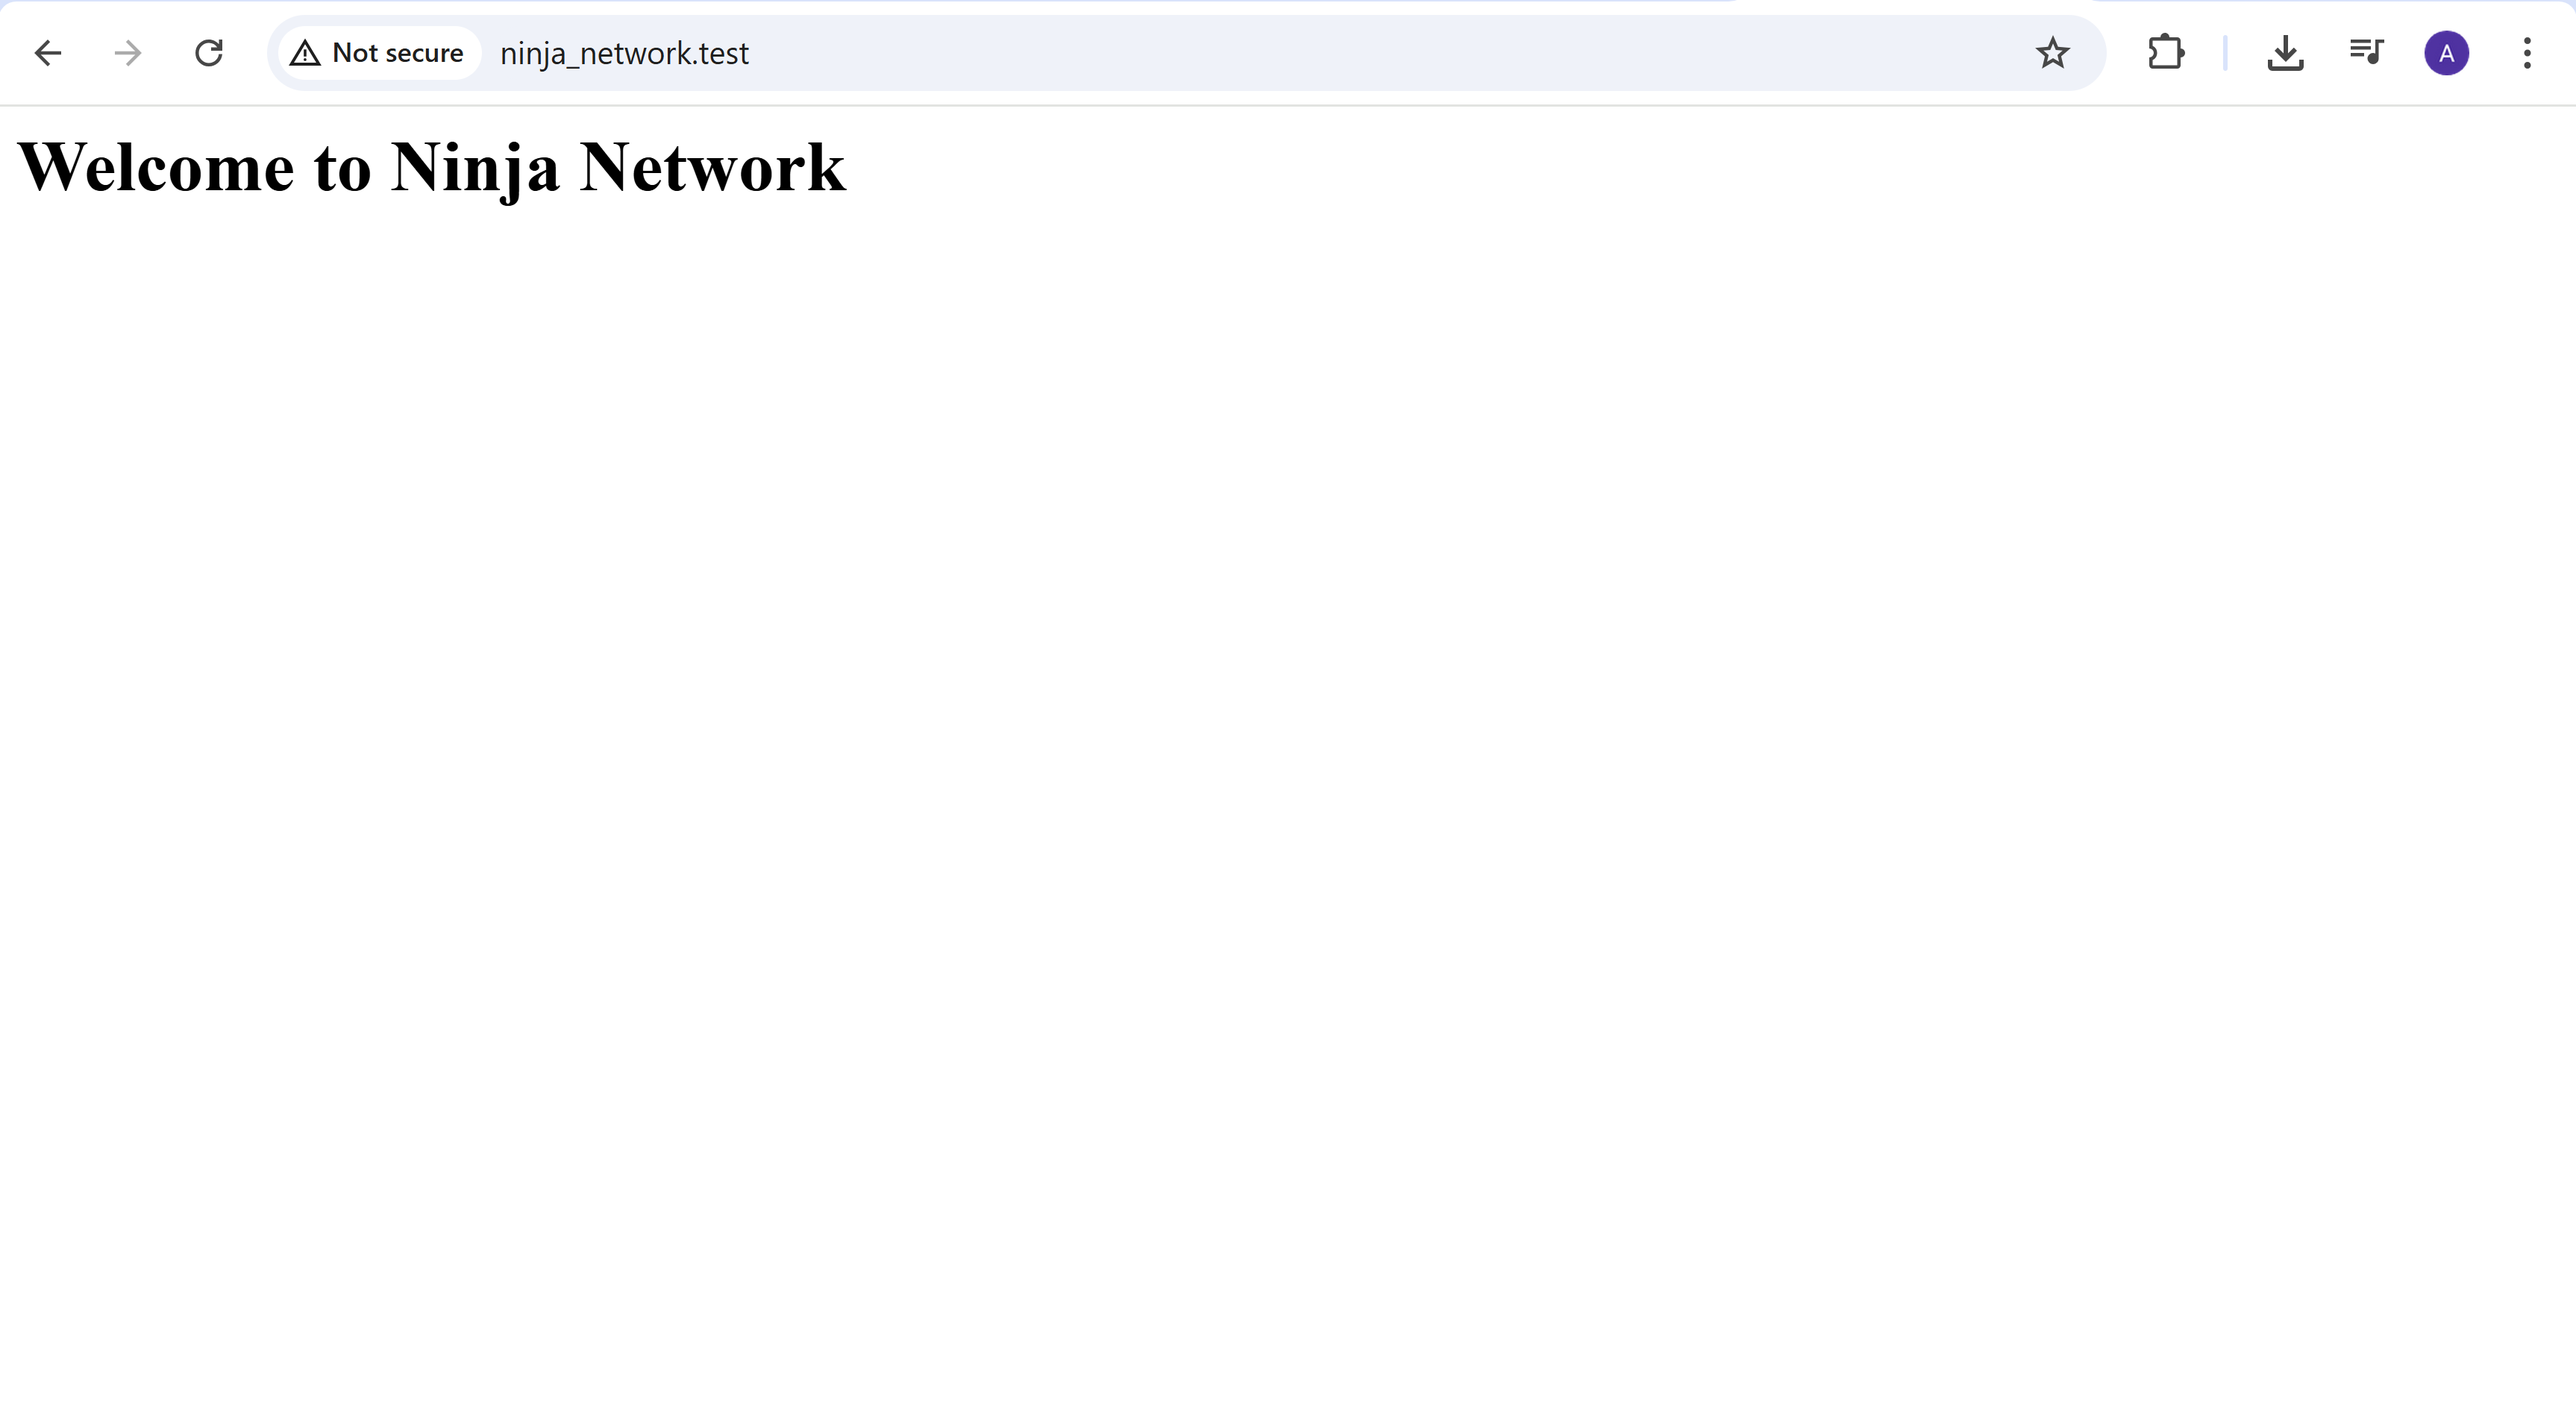
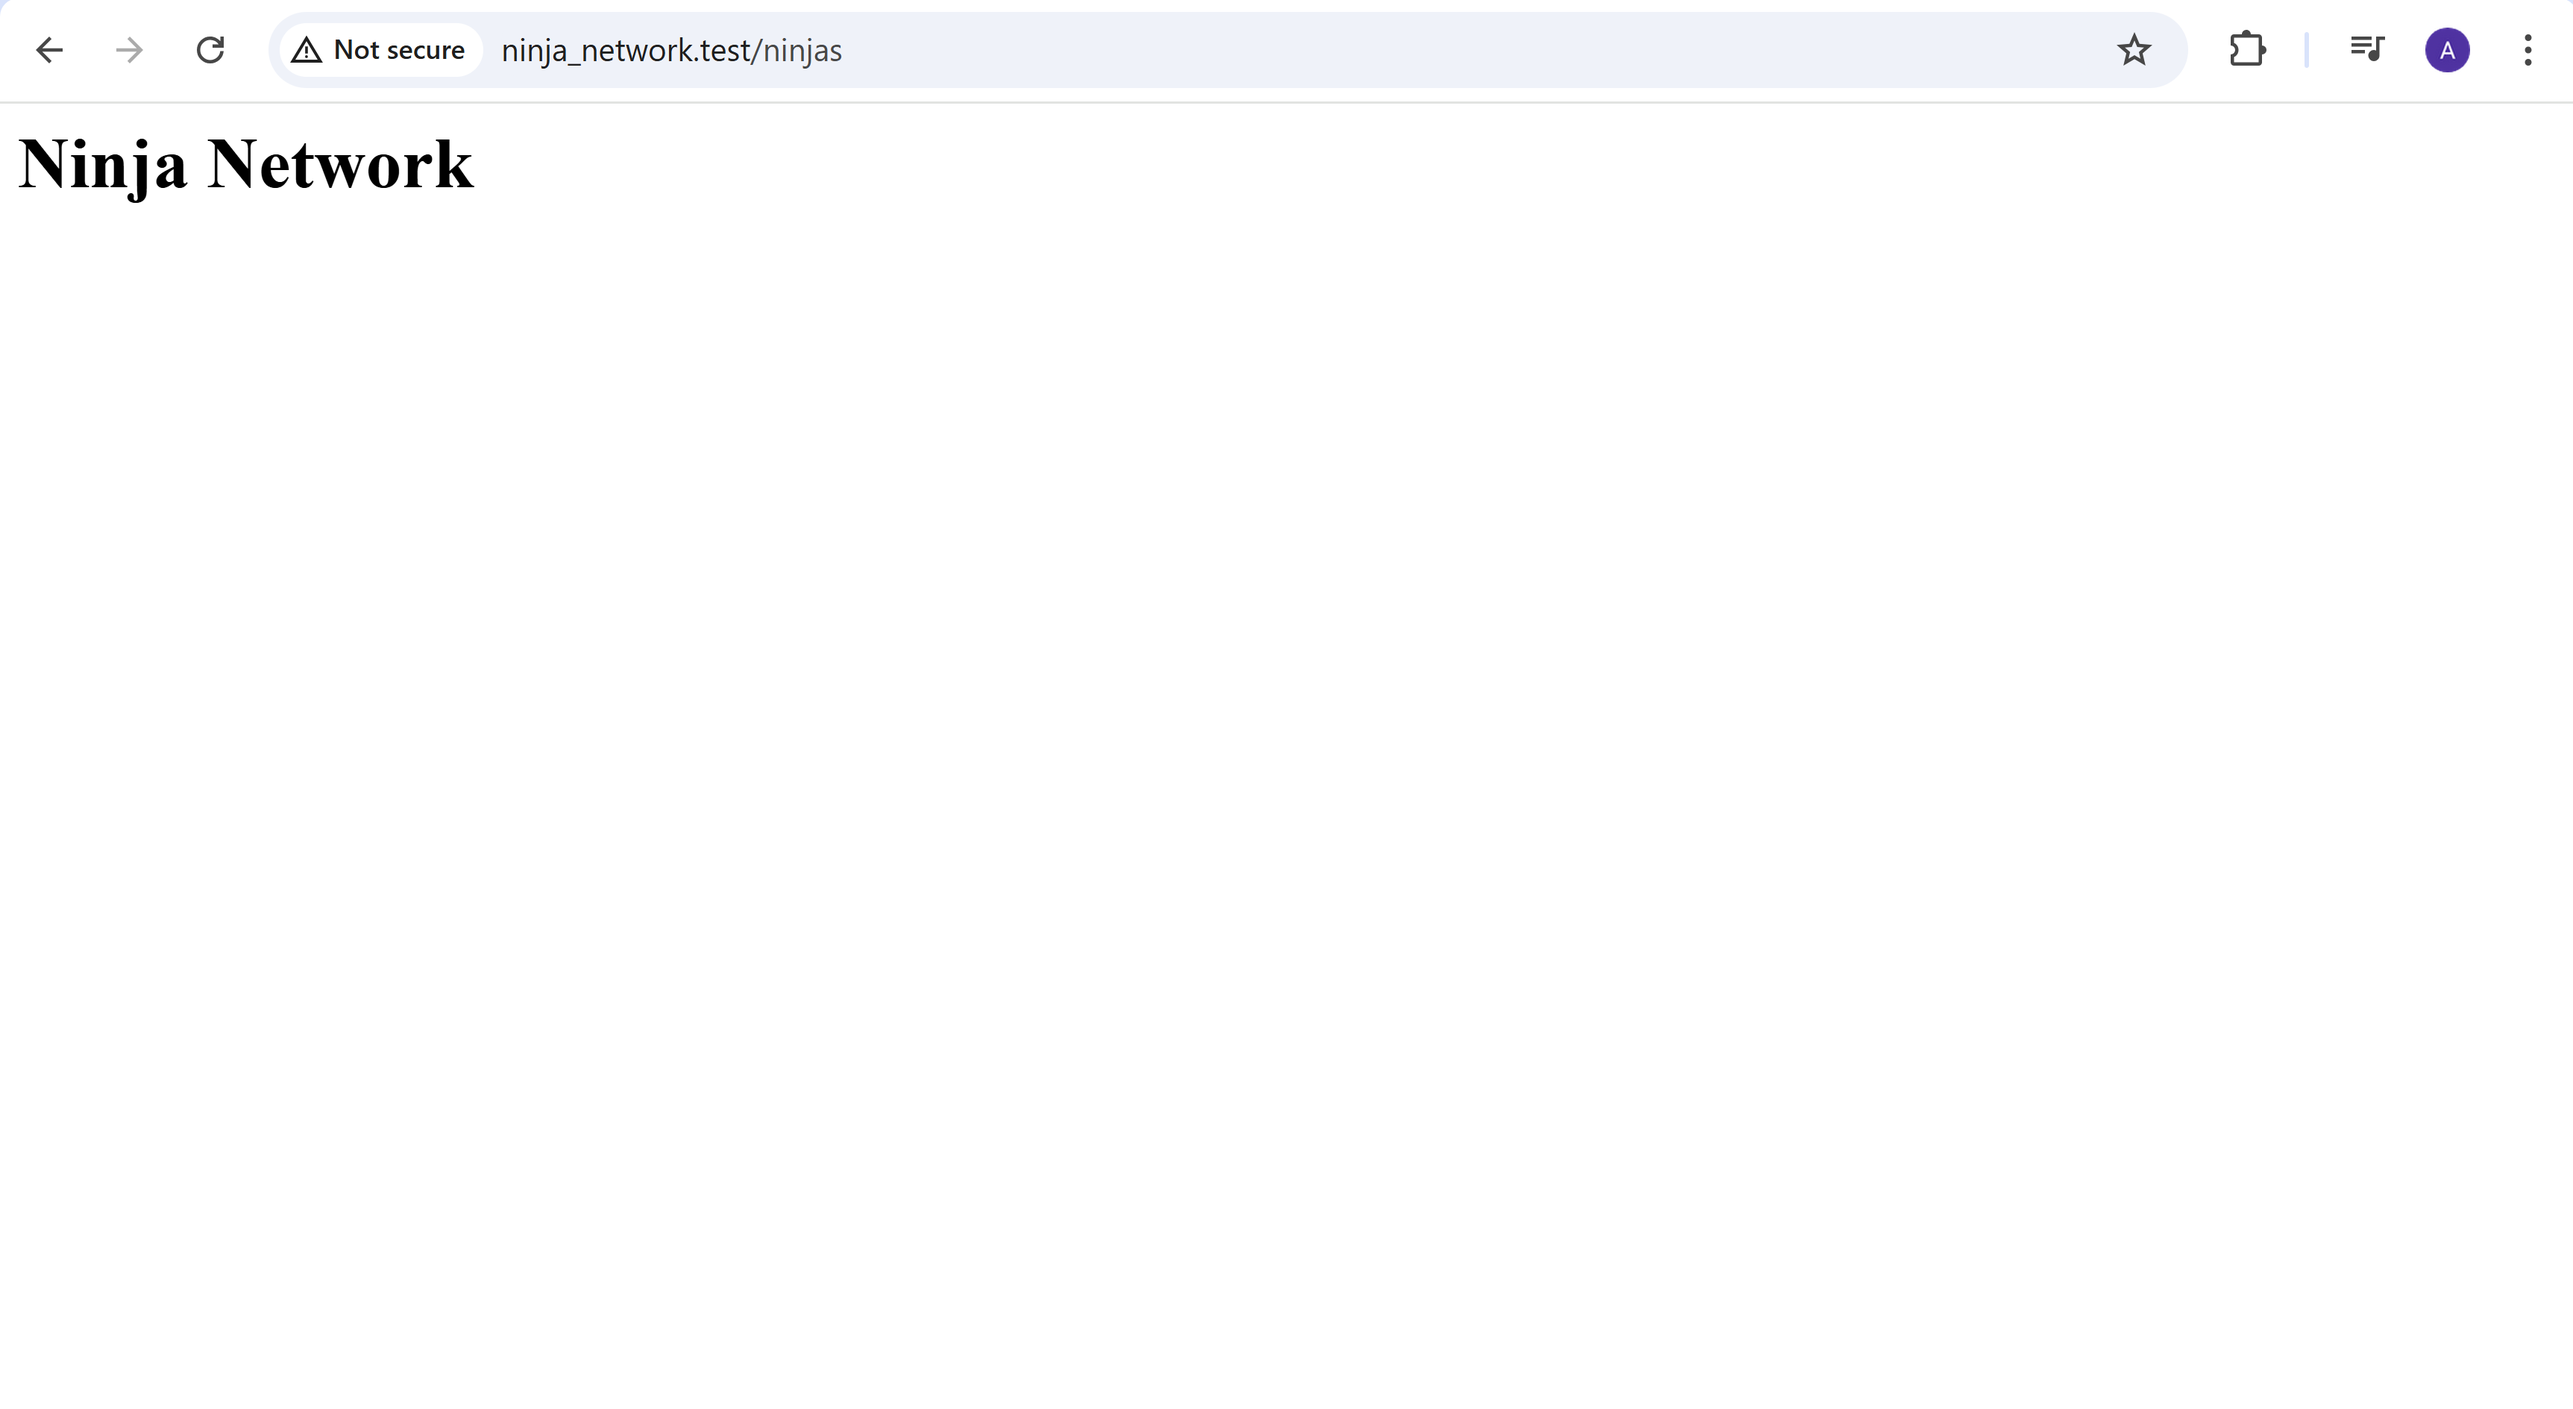
views & routes

Changed region(s): [[0.0, 0.0937, 0.3412, 0.1562], [0.093, 0.0312, 0.3412, 0.0625], [0.7754, 0.0, 0.9614, 0.0625]]

diff --git a/resources/views/ninjas/index.blade.php b/resources/views/ninjas/index.blade.php
@@ -1,0 +1,10 @@
+<html lang="{{ str_replace('_', '-', app()->getLocale()) }}">
+<head>
+    <meta charset="UTF-8">
+    <meta name="viewport" content="width=device-width, initial-scale=1.0">
+    <title>Ninja Network</title>
+</head>
+<body>
+    <h1>Ninja Network</h1>
+</body>
+</html>

diff --git a/routes/web.php b/routes/web.php
@@ -5,3 +5,6 @@ use Illuminate\Support\Facades\Route;
 Route::get('/', function () {
     return view('welcome');
 });
+Route::get('/ninjas', function () {
+    return view('ninjas.index');
+});

diff --git a/README.md b/README.md
@@ -1,133 +1,65 @@
 # Laravel Learning Journey - Ninja Network
 
-Welcome to my Laravel learning project! This repository documents my journey learning Laravel PHP framework by building the **Ninja Network** application.
+Learning Laravel fundamentals through building the **Ninja Network** application.
 
-## 🚀 Project Setup
+## 🚀 Quick Setup
 
-This project was created following these steps:
-
-### Prerequisites
-1. **Install Laravel Herd** - Local development environment for Laravel
-2. **Project Location** - Must be inside Laravel Herd folder for proper functionality
-3. **Base Terminal** - Use system terminal for commands
-
-### Project Creation
 ```bash
 laravel new ninja_network
 ```
-- Selected all default options during setup
-- Project automatically configured with Laravel's standard structure
 
-### Development Server
-The project runs locally at: **ninja_network.test**
+**Local Development:** `ninja_network.test`
 
 ![Project Preview](previews/image.png)
 
-## 📁 Major Project Structure
+## 🎯 Core Laravel Concepts
 
-Understanding Laravel's key directories:
+### Routes and Views
+Laravel uses routes to connect URLs to views or controllers.
 
-### `/app` - Application Logic
-- Contains models, controllers, and core application code
-- **Controllers**: Handle HTTP requests and responses
-- **Models**: Interact with database and business logic
+#### Basic Route Example
+```php
+// In routes/web.php
+Route::get('/ninjas', function() {
+    return view('ninjas.index');
+});
+```
 
-### `/database` - Database Management
-- **Migrations**: Database schema version control
-- **Seeders**: Sample data for development
-- **Factories**: Generate fake data for testing
+**How it works:**
+1. User visits `/ninjas` URL
+2. Laravel looks for this route in `routes/web.php`
+3. Route returns a view from `resources/views/ninjas/index.blade.php`
 
-### `/resources` - Frontend Assets
-- **Views**: Blade templates (`.blade.php` files)
-- **CSS/JS**: Styling and JavaScript files
-- **Lang**: Localization files
+### Blade Templating
+We use **Blade** to create dynamic views with special features:
 
-### `/routes` - URL Routing
-- **web.php**: Web routes for the application
-- **api.php**: API routes
-- **console.php**: Artisan commands
-
-## 🎯 Learning Progress
-
-### ✅ Completed
-- [x] Laravel Herd installation and setup
-- [x] Project creation with `laravel new ninja_network`
-- [x] Understanding basic project structure
-- [x] Modified welcome view with custom content
-- [x] Learned about Blade templating basics
-
-### 🔄 Currently Learning
-- [ ] Routing and Controllers
-- [ ] Database migrations and models
-- [ ] Blade templating advanced features
-- [ ] Authentication system
-- [ ] Form handling and validation
-
-### 📝 Key Changes Made
-
-#### Welcome View Modifications
-Located in: `resources/views/welcome.blade.php`
-
-**Important Laravel concept learned:**
 ```php
 <html lang="{{ str_replace('_', '-', app()->getLocale()) }}">
 ```
-This line demonstrates:
-- **Blade syntax**: `{{ }}` for echoing variables
-- **Laravel helpers**: `app()->getLocale()` gets current application locale
-- **PHP functions**: `str_replace()` converts underscores to hyphens for valid HTML lang attribute
 
-## 🛠 Development Commands
+**Blade Features:**
+- `{{ }}` - Echo variables/data
+- `@if`, `@foreach` - Control structures  
+- `@extends`, `@section` - Template inheritance
+- `{!! !!}` - Raw HTML output
 
-```bash
-# Start development server (if not using Herd)
-php artisan serve
-
-# Run migrations
-php artisan migrate
-
-# Create new controller
-php artisan make:controller ControllerName
-
-# Create new model
-php artisan make:model ModelName
-
-# Clear application cache
-php artisan cache:clear
+### File Structure
+```
+routes/
+  web.php           ← Define your routes here
+resources/
+  views/
+    welcome.blade.php     ← Your views here
+    ninjas/
+      index.blade.php     ← Organized in folders
 ```
 
-## 📚 Learning Resources
+## � How Everything Works
 
-- [Laravel Documentation](https://laravel.com/docs)
-- [Laravel Bootcamp](https://bootcamp.laravel.com)
-- [Laracasts](https://laracasts.com)
-- [Laravel News](https://laravel-news.com)
+1. **Request comes in** → `ninja_network.test/ninjas`
+2. **Laravel checks routes** → `routes/web.php`
+3. **Route found** → `Route::get('/ninjas', ...)`
+4. **View returned** → `resources/views/ninjas/index.blade.php`
+5. **Blade processes** → Dynamic content rendered
+6. **HTML sent to browser** → User sees the page
 
-## 🎯 Project Goals
-
-This learning project aims to cover:
-1. **MVC Architecture** - Understanding Model-View-Controller pattern
-2. **Routing** - Creating and managing application routes
-3. **Database Operations** - Migrations, models, and Eloquent ORM
-4. **Authentication** - User registration and login system
-5. **Frontend Integration** - Working with Blade templates and assets
-6. **Testing** - Writing and running tests
-7. **Deployment** - Preparing application for production
-
-## 📊 Project Status
-
-**Created**: Learning Phase  
-**Framework**: Laravel (Latest)  
-**PHP Version**: Compatible with Laravel requirements  
-**Database**: SQLite (default for development)  
-**Frontend**: Blade templates with basic HTML/CSS
-
----
-
-## About Laravel
-
-Laravel is a web application framework with expressive, elegant syntax. We believe development must be an enjoyable and creative experience to be truly fulfilling. Laravel takes the pain out of development by easing common tasks used in many web projects.
-
-## License
-
-The Laravel framework is open-sourced software licensed under the [MIT license](https://opensource.org/licenses/MIT).
